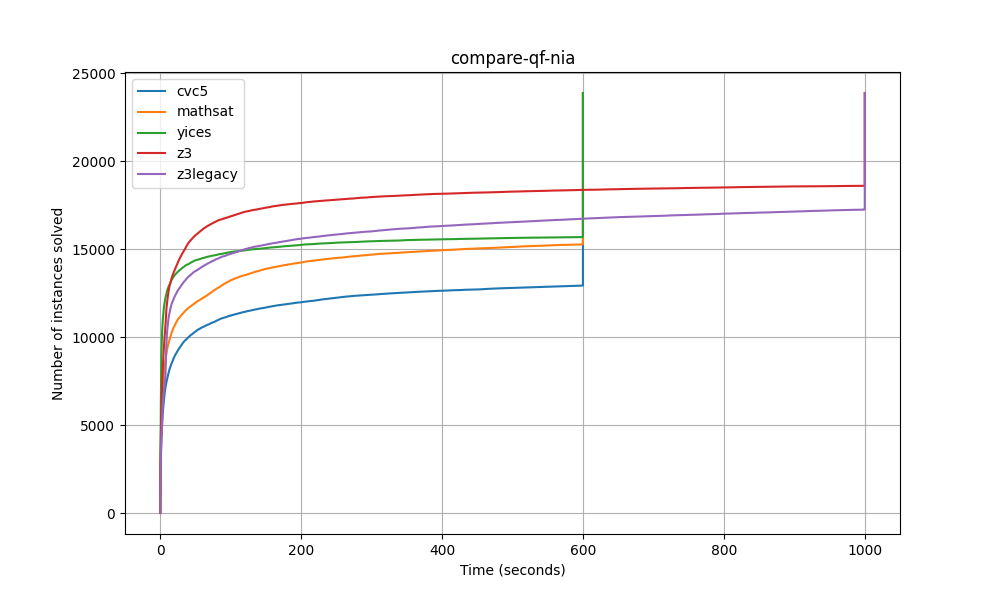
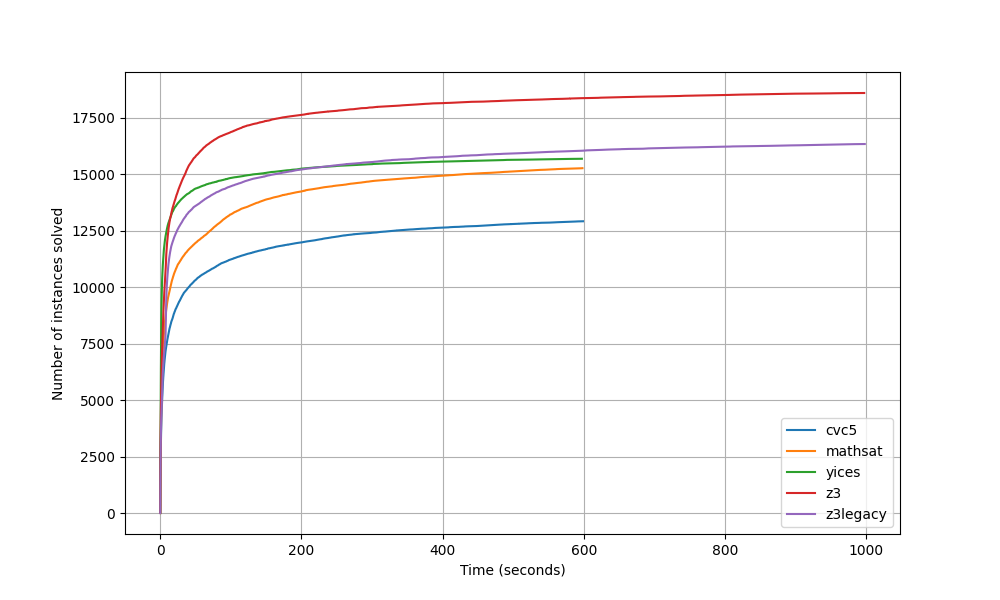
update plots

diff --git a/arithmetic/data/cactus.py b/arithmetic/data/cactus.py
@@ -1,3 +1,4 @@
+import sys
 import os
 import sys
 import csv
@@ -47,8 +48,11 @@ class Stats:
                         col2index[w] = index
                         index += 1
                     continue
-                t_cpu = float(row[col2index["T_wc"]])
-                self.times.append(t_cpu)
+                is_sat = int(row[col2index["# SAT"]])
+                is_unsat = int(row[col2index["# UNSAT"]])
+                if is_sat or is_unsat:
+                    t_cpu = float(row[col2index["T_wc"]])
+                    self.times.append(t_cpu)
  
     def draw_cactus_plot(self):
         sorted_times = sorted(self.times)
@@ -56,13 +60,21 @@ class Stats:
         
         
  
-def create_stats():    
+def create_stats(args):    
     for f in os.listdir("."):
-        if f.endswith("csv"):
+        if f.endswith("csv") and include(args, f):
             print(f"processing {f}")
             yield Stats(f)
 
+import itertools
+
 compare_pat = re.compile(r"compare-([^-]+)-(.+)\.*")
+
+def include(args, f):
+    if len(args) == 1:
+        return True
+    else:
+        return any(arg.lower() in f.lower() for arg in itertools.tail(args))
 
 def split_solver(benchmark):
     if "compare" in benchmark:
@@ -79,7 +91,7 @@ def draw_cactus_plots(stats):
             st.draw_cactus_plot()
         plt.xlabel('Time (seconds)')
         plt.ylabel('Number of instances solved')
-        plt.title(key)
+        # plt.title(key)
         plt.legend()
         plt.grid(True)
         plt.savefig(key+'.png')
@@ -97,4 +109,14 @@ def draw_cactus_plots(stats):
         draw_table(key, sts)    
     print("tables " + str(len(tables)))   
     
-draw_cactus_plots(create_stats())
+
+import sys
+
+def main(args):
+    draw_cactus_plots(create_stats(args))
+
+import sys
+
+
+if __name__ == "__main__":
+    main(sys.argv)  # sys.argv[0] is the script name itself and is generally ignored

diff --git a/arithmetic/paper/evaluation.tex b/arithmetic/paper/evaluation.tex
@@ -101,8 +101,8 @@ or due to unsupported features. The version of Z3 used for the experiments corre
 \begin{figure}[htbp]
   \centering
   \includegraphics[width=0.99\textwidth]{../data/compare-benchmark-submission.png}
-  \caption{Compare solvers on benchmark-submission}
-  \label{fig:compare-benchmark-submission}
+  \caption{Compare solvers on Certora Benchmarks
+  \label{fig:compare-benchmark-submission}}
 \end{figure}
 
 \papercomment{
